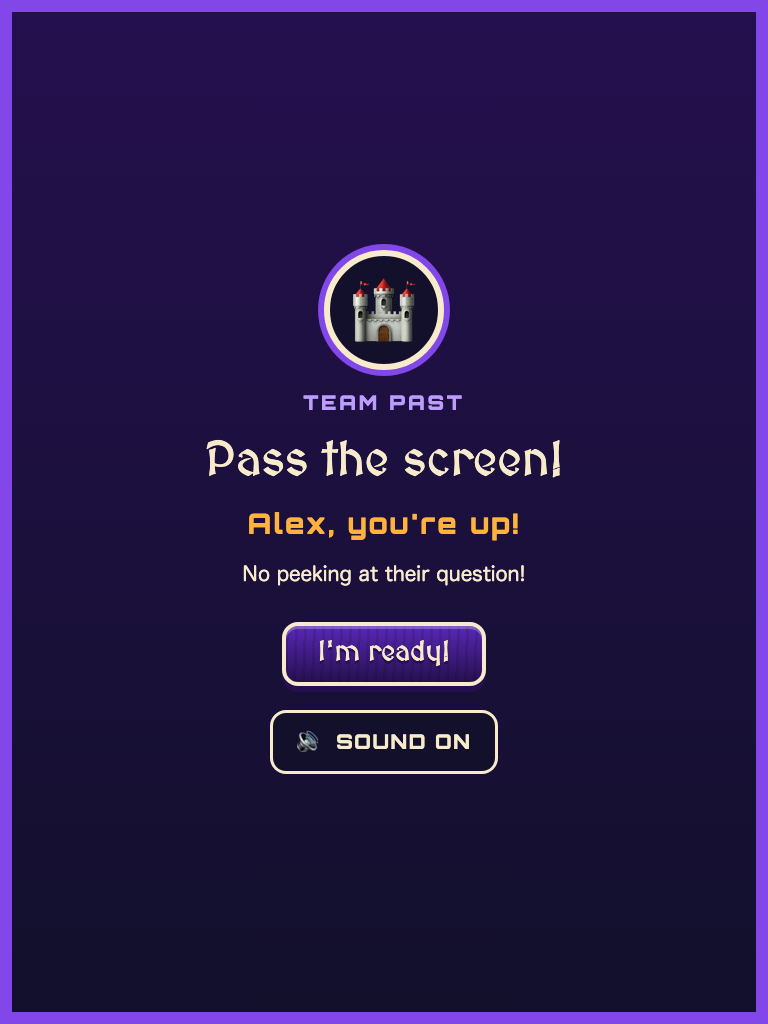
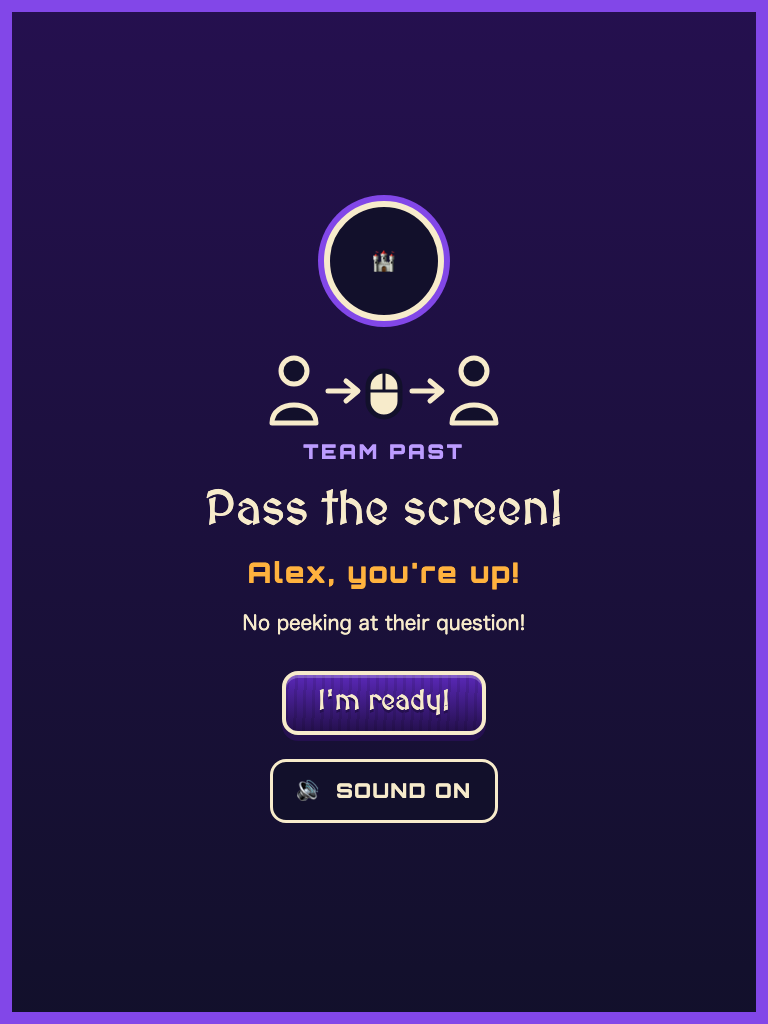
Fix portrait Setup chips, lower the portrait battle picture, add a pass screen picture
The Both chip now stays on one row with Reading and Math. In portrait the battle picture drops 40px so the top cards clear every fighter on the Skyscraper, pinned by a geometry check. The pass screen shows a picture of handing over the mouse for pre-readers.

Changed region(s): [[0.25, 0.1875, 0.75, 0.8125]]

diff --git a/e2e/portrait.spec.ts b/e2e/portrait.spec.ts
@@ -1,8 +1,14 @@
 // iPad portrait (768x1024) smoke check: every key screen fits, nothing scrolls sideways.
 import { expect, test } from './fixtures';
+import { WORLD } from '../src/game/config';
+import { UNIT_IDS, unitBox, unitById } from '../src/game/units';
 import { smallTargets } from './support/audit';
 import {
+  FUTURE_SIDE,
+  PAST_SIDE,
+  SEED,
   answerReload,
+  fillTeam,
   playShots,
   readyUp,
   startMatch,
@@ -46,7 +52,16 @@ test('portrait: setup, battle, pass screen and reload all fit', async ({ page, b
   await expectBannerClear(page, 'portrait banner');
   await fits(
     page,
-    ['fire', 'aim-angle', 'aim-power', 'wind', 'base-hp-PAST', 'base-hp-FUTURE', 'hud-mute', 'pause'],
+    [
+      'fire',
+      'aim-angle',
+      'aim-power',
+      'wind',
+      'base-hp-PAST',
+      'base-hp-FUTURE',
+      'hud-mute',
+      'pause',
+    ],
     'Battle',
   );
   expect(await smallTargets(page), 'targets in Battle').toEqual([]);
@@ -69,4 +84,54 @@ test('portrait: setup, battle, pass screen and reload all fit', async ({ page, b
 test('portrait: the start button is visible without scrolling', async ({ page }) => {
   await toSetup(page);
   await fits(page, ['setup-next'], 'Setup');
+});
+
+// Regression #3 style: in portrait the team cards must not sit on top of fighters, even with
+// Team Future's base high on the Skyscraper.
+test('portrait: the team cards clear every fighter on the Skyscraper', async ({ page }) => {
+  await toSetup(page);
+  await fillTeam(page, 'PAST', PAST_SIDE);
+  await fillTeam(page, 'FUTURE', FUTURE_SIDE);
+  await page.evaluate((s) => window.__timeclash!.setSeed(s), SEED);
+  await tid(page, 'setup-next').click();
+  await tid(page, 'camp-start').click();
+  await tid(page, 'plan-spot-skyscraper').click();
+  await tid(page, 'plan-go').click();
+  await waitPassScreen(page);
+  await readyUp(page);
+  await expect(tid(page, 'fire')).toBeVisible();
+  const layout = (await page.evaluate(() => window.__timeclash!.layout()))!;
+  expect(layout.spot).toBe('skyscraper');
+  const canvas = (await page.locator('#game canvas').boundingBox())!;
+  const k = canvas.width / WORLD.width;
+  for (const team of ['PAST', 'FUTURE'] as const) {
+    const card = (await tid(page, `base-hp-${team}`)
+      .locator('xpath=ancestor::*[@data-team][1]')
+      .boundingBox())!;
+    for (const id of UNIT_IDS) {
+      if (unitById(id)!.team !== team) continue;
+      const b = unitBox(team, id, layout);
+      const x = canvas.x + b.x * k;
+      const y = canvas.y + b.y * k;
+      const hit =
+        x < card.x + card.width &&
+        card.x < x + b.w * k &&
+        y < card.y + card.height &&
+        card.y < y + b.h * k;
+      expect(hit, `${team} card covers fighter ${id}`).toBe(false);
+    }
+  }
+});
+
+// The Both chip must stay on the same row as Reading and Math.
+test('portrait: the subject chips share one row on Setup', async ({ page }) => {
+  await toSetup(page);
+  for (const team of ['PAST', 'FUTURE'] as const) {
+    const tops: number[] = [];
+    for (const s of ['reading', 'math', 'both']) {
+      const box = (await tid(page, `setup-subject-${team}-${s}`).boundingBox())!;
+      tops.push(Math.round(box.y));
+    }
+    expect(new Set(tops).size, `${team} subject chips on one row: ${tops}`).toBe(1);
+  }
 });

diff --git a/src/styles/ui.css b/src/styles/ui.css
@@ -272,9 +272,11 @@ body {
   letter-spacing: var(--tc-ls-caps);
 }
 .tc-chip-wide {
-  flex: 1 1 auto;
-  min-width: 96px;
+  flex: 1 1 0;
+  min-width: 0;
+  padding-inline: var(--tc-s-2);
   letter-spacing: 0.02em;
+  white-space: nowrap;
 }
 .tc-chip[aria-checked='true'] {
   background: var(--tc-chip-on-bg);
@@ -473,6 +475,11 @@ body {
   box-shadow:
     0 0 0 6px var(--tc-blue-500),
     var(--tc-glow-neon);
+}
+.tc-pass-art {
+  width: 240px;
+  height: 90px;
+  color: var(--tc-parchment-warm);
 }
 .tc-team-tag {
   font-family: var(--tc-font-voice-new);
@@ -4143,6 +4150,15 @@ button.tc-forge-row[aria-disabled='true'],
     grid-template-areas: 'past future';
     padding: var(--tc-chrome-row) 12px 12px;
   }
+  /* Portrait: the picture drops a little so the top cards never cover a fighter, even on the
+     Skyscraper (Team Future's fighters stand highest there). */
+  :root {
+    --tc-battle-drop: 40px;
+  }
+  body:has(.tc-hud-bottom) #game canvas {
+    /* Phaser writes an inline margin-top, so this needs !important. */
+    margin-top: var(--tc-battle-drop) !important;
+  }
   .tc-hud-top > [data-team='PAST'] {
     grid-area: past;
   }
@@ -4165,8 +4181,9 @@ button.tc-forge-row[aria-disabled='true'],
   /* Portrait: the band is taller, so the controls wrap to two rows. The aim panel and Fire
      share the second row. */
   .tc-hud-bottom {
-    /* Starts right under the picture (width x 920/1280 tall: battlefield plus band). */
-    top: calc(100vw * 920 / 1280);
+    /* Starts right under the picture (width x 920/1280 tall: battlefield plus band), which sits
+       below the team cards' gap. */
+    top: calc(100vw * 920 / 1280 + var(--tc-battle-drop));
     bottom: auto;
     align-items: stretch;
     padding-top: var(--tc-s-2);

diff --git a/src/ui/passArt.ts b/src/ui/passArt.ts
@@ -1,0 +1,20 @@
+// A picture for pre-readers on the pass screen: one player slides the mouse over to the other.
+// Original shapes, no words. The words on the screen stay; this only adds a picture.
+import { svgFromString } from './svg';
+
+const PASS_ART = `<svg viewBox="0 0 240 90" width="240" height="90">
+  <g fill="none" stroke="currentColor" stroke-width="5" stroke-linecap="round" stroke-linejoin="round">
+    <circle cx="30" cy="30" r="13" fill="var(--tc-ink-deep)"/>
+    <path d="M8 82 C8 58 52 58 52 82 Z" fill="var(--tc-ink-deep)"/>
+    <circle cx="210" cy="30" r="13" fill="var(--tc-ink-deep)"/>
+    <path d="M188 82 C188 58 232 58 232 82 Z" fill="var(--tc-ink-deep)"/>
+    <rect x="104" y="30" width="32" height="46" rx="16" fill="var(--tc-parchment-warm)" stroke="var(--tc-ink-deep)"/>
+    <path d="M120 30 V50 M104 50 H136" stroke="var(--tc-ink-deep)" stroke-width="3"/>
+    <path d="M64 50 H92 M82 40 L94 50 L82 60"/>
+    <path d="M148 50 H176 M166 40 L178 50 L166 60"/>
+  </g>
+</svg>`;
+
+export function passArt(doc: Document): SVGElement {
+  return svgFromString(doc, PASS_ART, 'tc-pass-art');
+}

diff --git a/tests/ui/covers.test.ts b/tests/ui/covers.test.ts
@@ -608,6 +608,23 @@ describe('reload modal', () => {
   });
 });
 
+describe('pass-the-mouse cover picture', () => {
+  it('shows a picture of passing the mouse, hidden from screen readers, with the words kept', () => {
+    void s.overlay.showPassScreen({ nextName: 'Sam', nextTeam: 'FUTURE' });
+    const art = q(TEST_IDS.passScreen)!.querySelector('svg.tc-pass-art');
+    expect(art).not.toBeNull();
+    expect(art!.getAttribute('aria-hidden')).toBe('true');
+    expect(art!.hasAttribute('hidden')).toBe(false);
+    expect(art!.querySelector('text')).toBeNull();
+    expect(q(TEST_IDS.passScreen)!.textContent).toContain(PASS_SCREEN.upNext('Sam'));
+  });
+
+  it('draws one picture for the other team too', () => {
+    void s.overlay.showPassScreen({ nextName: 'Alex', nextTeam: 'PAST' });
+    expect(q(TEST_IDS.passScreen)!.querySelectorAll('svg.tc-pass-art')).toHaveLength(1);
+  });
+});
+
 describe('cover stack', () => {
   it('a second cover on top reports itself, and the first returns when it closes', async () => {
     void s.overlay.showPassScreen({ nextName: 'Sam', nextTeam: 'FUTURE' });

diff --git a/src/ui/passScreen.ts b/src/ui/passScreen.ts
@@ -3,6 +3,7 @@ import { PASS_SCREEN, TEAM_NAMES } from '../data/copy';
 import type { UiCtx } from './ctx';
 import { h } from './dom';
 import { createCoverMute } from './muteButton';
+import { passArt } from './passArt';
 import { TEST_IDS, type PassScreenOptions } from './types';
 
 export function showPassScreen(ctx: UiCtx, options: PassScreenOptions): Promise<void> {
@@ -37,6 +38,7 @@ export function showPassScreen(ctx: UiCtx, options: PassScreenOptions): Promise<
           'aria-hidden': 'true',
           text: PASS_SCREEN.icon[options.nextTeam],
         }),
+        passArt(doc),
         h(doc, 'p', { class: 'tc-team-tag', text: TEAM_NAMES[options.nextTeam] }),
         h(doc, 'h2', { id: 'tc-pass-heading', text: PASS_SCREEN.heading }),
         h(doc, 'p', { class: 'tc-big', text: PASS_SCREEN.upNext(options.nextName) }),

diff --git a/src/styles/tokens.css b/src/styles/tokens.css
@@ -34,6 +34,8 @@
   /* Room for the fixed ? and gear row (chrome.ts): two tap targets, a gap, and margins. */
   --tc-chrome-row: calc(var(--tc-tap) + 24px);
   --tc-chrome-clear: calc(var(--tc-tap) * 2 + 36px);
+  /* How far the Battle picture drops below the top. Portrait raises it (ui.css). */
+  --tc-battle-drop: 0px;
   /* Height of the HUD card row. The turn banner sits below it. */
   --tc-hud-row: 184px;
   --tc-focus: #2f6fed;

diff --git a/AGENTS.md b/AGENTS.md
@@ -127,7 +127,7 @@ Check this list before coding. If your change touches a listed area, read the ex
 ## Current state (2026-10-15)
 Phase 1 is built: Tap to Play, How to Play (5 cards, captions, Skip, Replay, Mute), Loading, Setup, Battle (2 shots, then reload, then a Power Shot after a right answer), Victory and Rematch. Sound is made in code with WebAudio: cannon boom for Team Past, laser pew for Team Future, and one original music loop in two flavors. Test runs are silent (`tests/setup/silent.ts` and `e2e/support/silent.ts` fail a test that starts real sound). Question bank has 40 questions per grade per subject (1,040 total, checked by `npm run check:questions`). Intro voice audio files are not recorded yet, so the browser's speech voice is used.
 
-The look and feel phase is built from the Claude Design handoff. Tokens are in `src/styles/tokens.css`, and the rules are in [docs/DESIGN_SYSTEM.md](./docs/DESIGN_SYSTEM.md). MedievalSharp and Orbitron are self-hosted in `public/fonts/`. Grade chips are 56px or more. Contrast meets 4.5:1 for body text and 3:1 for large text. The labels are Team Past and Team Future, and the Wipeout screen replaces the mock's destroyed-base screen. Open polish and content items are in `BACKLOG.md`. The Camp Hub is built from the Main board: the Camp is the home screen (a returning family lands there with no Tap to Play screen, and a new family after Setup, with a small Change players button back to Setup), and "Time to Clash!" starts the match (Forge Weapon and Build Base open their own screens). The name is Time Clash. "Time to Clash!" is only the slogan. The Battle HUD follows the Battle board: one bar at the bottom (turn name, shot pips, Angle, Power, Fire!) and a coach line ("Slide Angle and Power. Then press Fire!") that shows until the first shot. Forge Weapon and Build Base are built (Scrap only; the label is "Build Base", and "Upgrade Base" is retired). With the base builder on, Build Base opens the builder (one button per side; spend Scrap on locked pieces and weapons, use what you own, keep three saved bases). With it off, Build Base opens the old shop screen. Setup, the Forge and Build Base have Back, and Pause has Leave game. Scrap and purchases are kept by player name on the device (lifetime Scrap too), and each player's Scrap shows in the battle HUD. Signed-in players and a SQLite database are planned, not built. Battle now has five fighters per side with a "Pick one" selector in the bottom band (only one acts at a time), a Power Shot after a right reload answer (one extra shot at 1.5x damage, size still Andy's call), fighters drawn from the Battle board, explosions, base damage marks, and funny falls that end in a puff. The Loading screen and Camp follow the latest boards, with arrows, the ball and the missile flying on real physics. Phase 2 play is wired in: "Time to Clash!" opens the Battle Plan (pick a place: Aspen Forest, Cherry Blossoms or Ruined Temple; Team Future hides its base on the Skyscraper, Food Trucks or Bridge; either side unlocks special ammo with Scrap), then Lock it in! starts the match. The plan is remembered (`timeclash.plan`). In battle, two gear buttons sit by Fire: Ammo (shown once a side owns a special kind) and the side's evasion ability (Team Past: Stone Wall, once per match; Team Future: Hoverboard Dodge, ready again 2 own turns later). Arming is free and guards during the other team's next turn. The turn is still 2 shots, then the covered reload. Question-level calibration is wired into the reload. Base health, Shots left, Wind and Scrap have pictures for pre-readers, and Chrono's reload quip and Victory line carry his name and fit the moment (see docs/DESIGN_SYSTEM.md). Fire! winds up for a moment (a glow at the launcher and a fill across the button) before each shot, for people and the computer alike.
+The look and feel phase is built from the Claude Design handoff. Tokens are in `src/styles/tokens.css`, and the rules are in [docs/DESIGN_SYSTEM.md](./docs/DESIGN_SYSTEM.md). MedievalSharp and Orbitron are self-hosted in `public/fonts/`. Grade chips are 56px or more. Contrast meets 4.5:1 for body text and 3:1 for large text. The labels are Team Past and Team Future, and the Wipeout screen replaces the mock's destroyed-base screen. Open polish and content items are in `BACKLOG.md`. The Camp Hub is built from the Main board: the Camp is the home screen (a returning family lands there with no Tap to Play screen, and a new family after Setup, with a small Change players button back to Setup), and "Time to Clash!" starts the match (Forge Weapon and Build Base open their own screens). The name is Time Clash. "Time to Clash!" is only the slogan. The Battle HUD follows the Battle board: one bar at the bottom (turn name, shot pips, Angle, Power, Fire!) and a coach line ("Slide Angle and Power. Then press Fire!") that shows until the first shot. Forge Weapon and Build Base are built (Scrap only; the label is "Build Base", and "Upgrade Base" is retired). With the base builder on, Build Base opens the builder (one button per side; spend Scrap on locked pieces and weapons, use what you own, keep three saved bases). With it off, Build Base opens the old shop screen. Setup, the Forge and Build Base have Back, and Pause has Leave game. Scrap and purchases are kept by player name on the device (lifetime Scrap too), and each player's Scrap shows in the battle HUD. Signed-in players and a SQLite database are planned, not built. Battle now has five fighters per side with a "Pick one" selector in the bottom band (only one acts at a time), a Power Shot after a right reload answer (one extra shot at 1.5x damage, size still Andy's call), fighters drawn from the Battle board, explosions, base damage marks, and funny falls that end in a puff. The Loading screen and Camp follow the latest boards, with arrows, the ball and the missile flying on real physics. Phase 2 play is wired in: "Time to Clash!" opens the Battle Plan (pick a place: Aspen Forest, Cherry Blossoms or Ruined Temple; Team Future hides its base on the Skyscraper, Food Trucks or Bridge; either side unlocks special ammo with Scrap), then Lock it in! starts the match. The plan is remembered (`timeclash.plan`). In battle, two gear buttons sit by Fire: Ammo (shown once a side owns a special kind) and the side's evasion ability (Team Past: Stone Wall, once per match; Team Future: Hoverboard Dodge, ready again 2 own turns later). Arming is free and guards during the other team's next turn. The turn is still 2 shots, then the covered reload. Question-level calibration is wired into the reload. Base health, Shots left, Wind and Scrap have pictures for pre-readers, and Chrono's reload quip and Victory line carry his name and fit the moment (see docs/DESIGN_SYSTEM.md). Fire! winds up for a moment (a glow at the launcher and a fill across the button) before each shot, for people and the computer alike. The pass screen has a picture of handing over the mouse for pre-readers. In portrait the Battle picture drops 40px (`--tc-battle-drop`) so the top cards clear every fighter, even on the Skyscraper (`e2e/portrait.spec.ts`).
 
 ## Pre-merge checklist
 1. `npm test`, `npm run lint`, `npm run typecheck`, `npm run build` pass with zero failures.

diff --git a/BACKLOG.md b/BACKLOG.md
@@ -14,16 +14,13 @@ Phase 1 is built (see docs/BUILD.md and docs/CONTRACTS.md). The look and feel ph
 ## P2
 - Reload card: an optional "hide the bonus ring" setting for slow readers.
 - Victory awards: the winner can still hold five awards. Consider a cap if it stings.
-- Portrait Setup: the Both chip wraps to its own row at 768 wide. Moot: iPad portrait now shows the Turn your iPad screen (docs/IPAD_AUDIT.md).
 - iPad landscape fixes from docs/IPAD_AUDIT.md: Clear my data is cut off on Setup at 1133x744, the Leave dialog body text is 16px, and the bottom controls have no safe-area margin.
 - Chrome host (? and gear) has no data-motion attribute. Add it if animation is ever added there.
 - Scrap counts and the brain stats line on Victory are still numbers in words. A pre-reader may want dots or stars to count.
-- The pass screen needs a picture for pre-readers, beyond the team icon in the medium item.
 - The win moment has no celebration.
 - The reward for a fast answer is easy to miss.
 - Wood plank and neon pod card skins, bigger castle and rocket pictures on Setup cards, brighter Tap to Play silhouettes with a visual gag, and bouncing victory blocks are new art.
 - Phase 2 Battle Plan, biomes, base spots, ammo and evasion are wired in. Open calls for Andy: one ability per team (Past wall, Future dodge) or both for each side; wall size and once per match versus dodge every 3rd turn (balance); Food Trucks as the default spot (it adds a low wall that Phase 1 did not have); ammo unlock lives on the Battle Plan, not the Forge.
-- P2: Portrait (768x1024) with the Skyscraper spot: the Team Future card covers the tank and laser robot on top of the tower. Move the top cards or lower the tower in portrait.
 - P2: Biome art is simple: cherry trees recolor the aspens and the temple uses plain columns. The spot shapes (tower, bridge deck, food truck wall) are plain steel blocks. Real art from a design board would help.
 - P3: The aim preview ignores the weapon and fighter range scale (it did before Phase 2 too). It does use the ammo and any standing wall.
 - P3: The Computer player does not aim around a standing stone wall.
